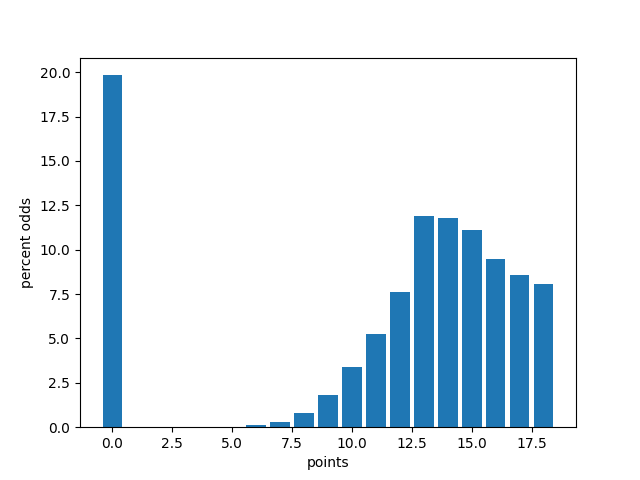
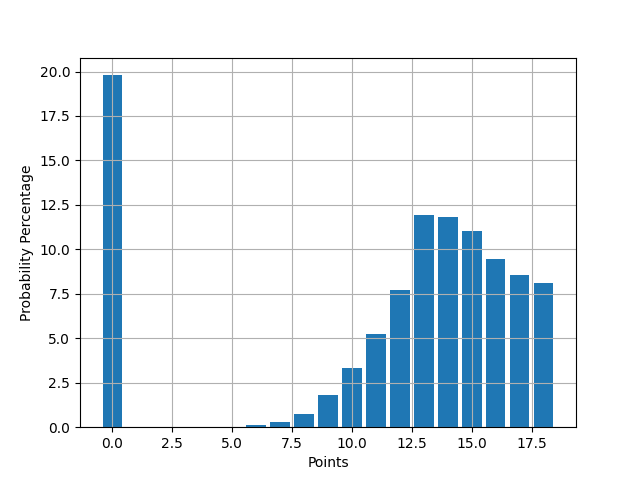
1-4 24

diff --git a/main.py b/main.py
@@ -3,62 +3,62 @@ import pandas as pd
 import matplotlib.pyplot as plt
 from collections import Counter
 
+N_FACES = 6
 
-def game():
-    obj = {
-        "one": False,
-        "four": False,
-        "count": 0,
-        "dice": 5
-    }
+def game(use_strategy = False):
+    one = False
+    four = False
+    count = 0
+    dice = 6
 
-    while obj["dice"] > 0:
+    while dice > 0:
         taken = False
-        rolls = [random.randint(1, 6) for _ in range(obj["dice"])]
+        rolls = [random.randint(1, N_FACES) for _ in range(dice)]
 
-        if (not obj["one"]) and (1 in rolls):
+        if not one and 1 in rolls:
             # cache the first one we find
-            obj["one"] = True
-            obj["dice"] -= 1
+            one = True
+            dice -= 1
             rolls.remove(1)
             taken = True
-        if (not obj["four"]) and (4 in rolls):
+        if not four and 4 in rolls:
             # cache the first four we find
-            obj["four"] = True
-            obj["dice"] -= 1
+            four = True
+            dice -= 1
             rolls.remove(4)
             taken = True
         
-        if obj["dice"] == 0:
+        if dice == 0:
             break
 
-        if (not taken) and (6 not in rolls):
-            # just take max available
-            max_roll = max(rolls)
-            obj["count"] += max_roll
-            obj["dice"] -= 1
-            rolls.remove(max_roll)
-        elif (6 in rolls):
-            if (not obj["one"]) or (not obj["four"]):
-                obj["count"] += 6
-                obj["dice"] -= 1
-                rolls.remove(6)
-            else:
-                # take a random number of 6s
-                # c = Counter(rolls)
-                # for _ in range(random.randint(1, c[6])):
-                #     obj["count"] += 6
-                #     obj["dice"] -= 1
-                #     rolls.remove(6)
-
-                # take all the sixes available
-                while 6 in rolls:
-                    obj["count"] += 6
-                    obj["dice"] -= 1
+        if use_strategy:
+            if not taken and 6 not in rolls:
+                # Take max available
+                max_roll = max(rolls)
+                count += max_roll
+                dice -= 1
+                rolls.remove(max_roll)
+            elif 6 in rolls:
+                if not one or not four:
+                    count += 6
+                    dice -= 1
                     rolls.remove(6)
+                else:
+                    # take all the sixes available
+                    while 6 in rolls:
+                        count += 6
+                        dice -= 1
+                        rolls.remove(6)
+
+        else:
+            if not taken:
+                random_dice = rolls[random.randint(0, len(rolls)-1)]
+                count += random_dice
+                dice -= 1
+                rolls.remove(random_dice)
     
-    if (obj["one"] and obj["four"]):
-        return obj["count"]
+    if one and four:
+        return count
     return 0
 
 
@@ -69,12 +69,13 @@ if __name__ == "__main__":
     for k, v in results_ctr.items():
         results_ctr[k] = (v / len(results)) * 100
 
-    itz_df = pd.DataFrame(results)
+    results_df = pd.DataFrame(results)
 
-    print(itz_df.describe())
+    print(results_df.describe())
     print(results_ctr)
 
     plt.bar(results_ctr.keys(), results_ctr.values())
-    plt.ylabel('percent odds')
-    plt.xlabel('points')
+    plt.grid(True)
+    plt.ylabel('Probability Percentage')
+    plt.xlabel('Points')
     plt.show()

diff --git a/README.md b/README.md
@@ -1,8 +1,29 @@
-## Midnight Dice Game Probabilities
+# Midnight Dice Game Probabilities
 
-Using a Monte Carlo approach we generate the probability distribution of points in a game of Midnight.
+Using a Monte Carlo approach we generate the probability distribution of points in a game of Midnight. This project started with the desire to answer the question, "What are my odds of rolling a perfect game?". Using a Monte Carlo simulation we were able to answer that question and many more.
+
+- The odds of rolling a perfect game with 6 dice is `~5.2%`.
+- The odds of not qualifying with 6 dice is `~8.3%`.
+
+- The odds of rolling a perfect game with 5 dice is `~8.0%`.
+- The odds of not qualifying with 5 dice is `~19.8%`.
 
 
+# Distributions
+## 6 Dice
+---
+### No Strategy
+![6 dice](./assets/6_dice_no_strategy.png)
+```
+std          4.407029
+min          0.000000
+25%         11.000000
+50%         14.000000
+75%         16.000000
+max         24.000000
+```
+
+### With Strategy
 ![6 dice](./assets/6_dice.png)
 ```
 count  1000000.000000
@@ -16,6 +37,22 @@ max         24.000000
 ```
 
 
+## 5 Dice
+---
+### No Strategy
+![5 dice](./assets/5_dice_no_strategy.png)
+```
+count  1000000.000000
+mean         9.269614
+std          4.486434
+min          0.000000
+25%          7.000000
+50%         10.000000
+75%         12.000000
+max         18.000000
+```
+
+### With Strategy
 ![5 dice](./assets/5_dice.png)
 ```
 count  1000000.000000
@@ -27,11 +64,11 @@ min          0.000000
 75%         16.000000
 max         18.000000
 ```
-### Authors
+## Authors
 - https://github.com/amansourian
 - https://github.com/benjaminykim
 - https://github.com/ElliotVilhelm
 
-### References
+## References
 - https://en.wikipedia.org/wiki/Midnight_(game)
 - https://en.wikipedia.org/wiki/Monte_Carlo_method
